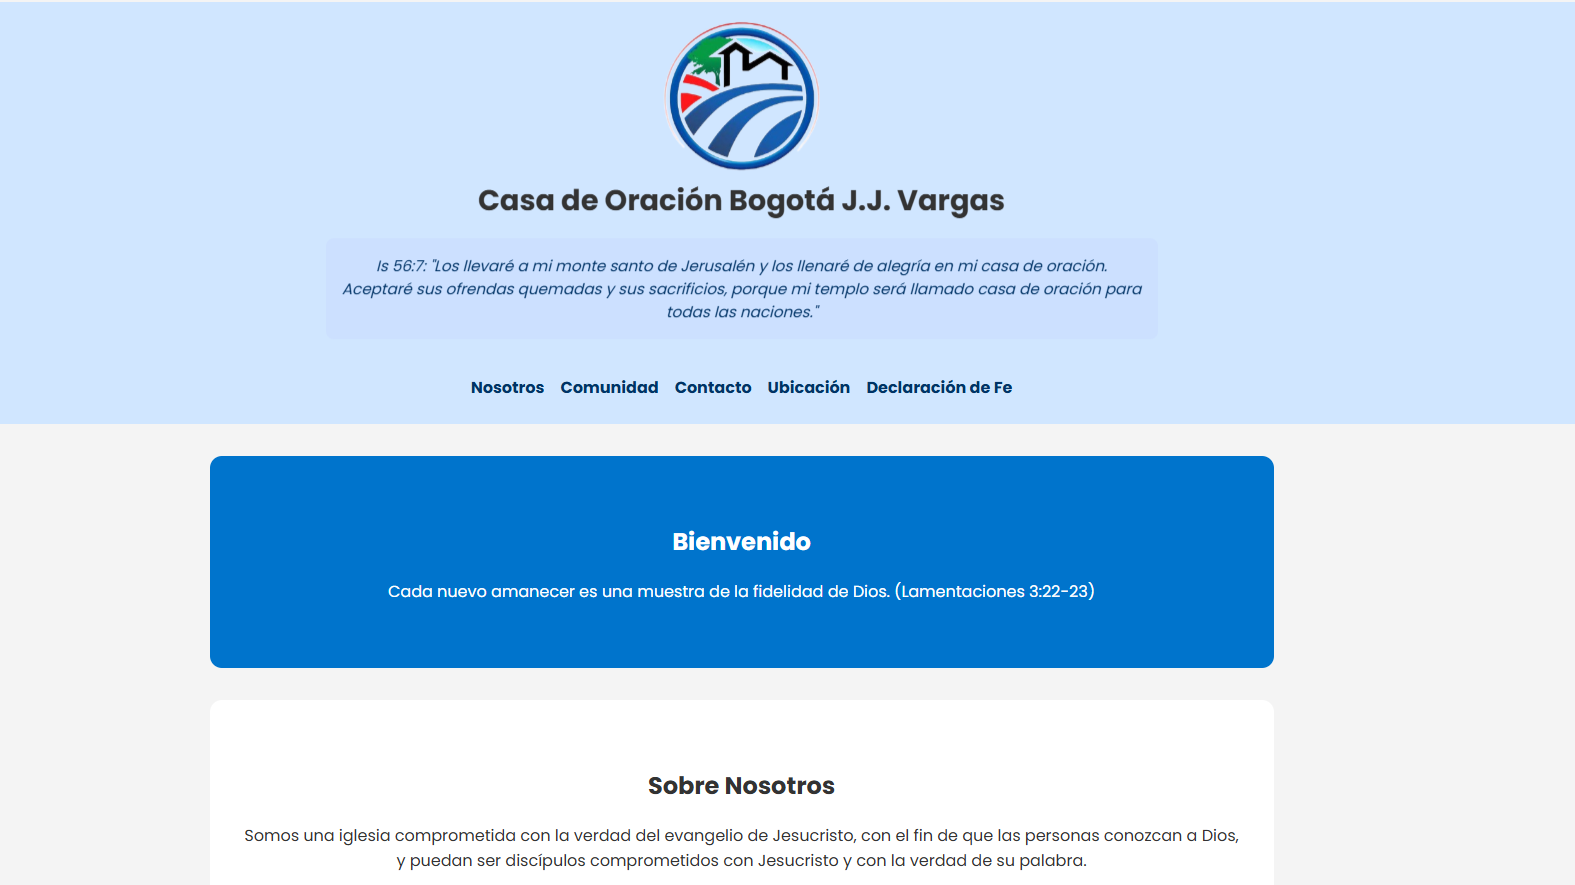
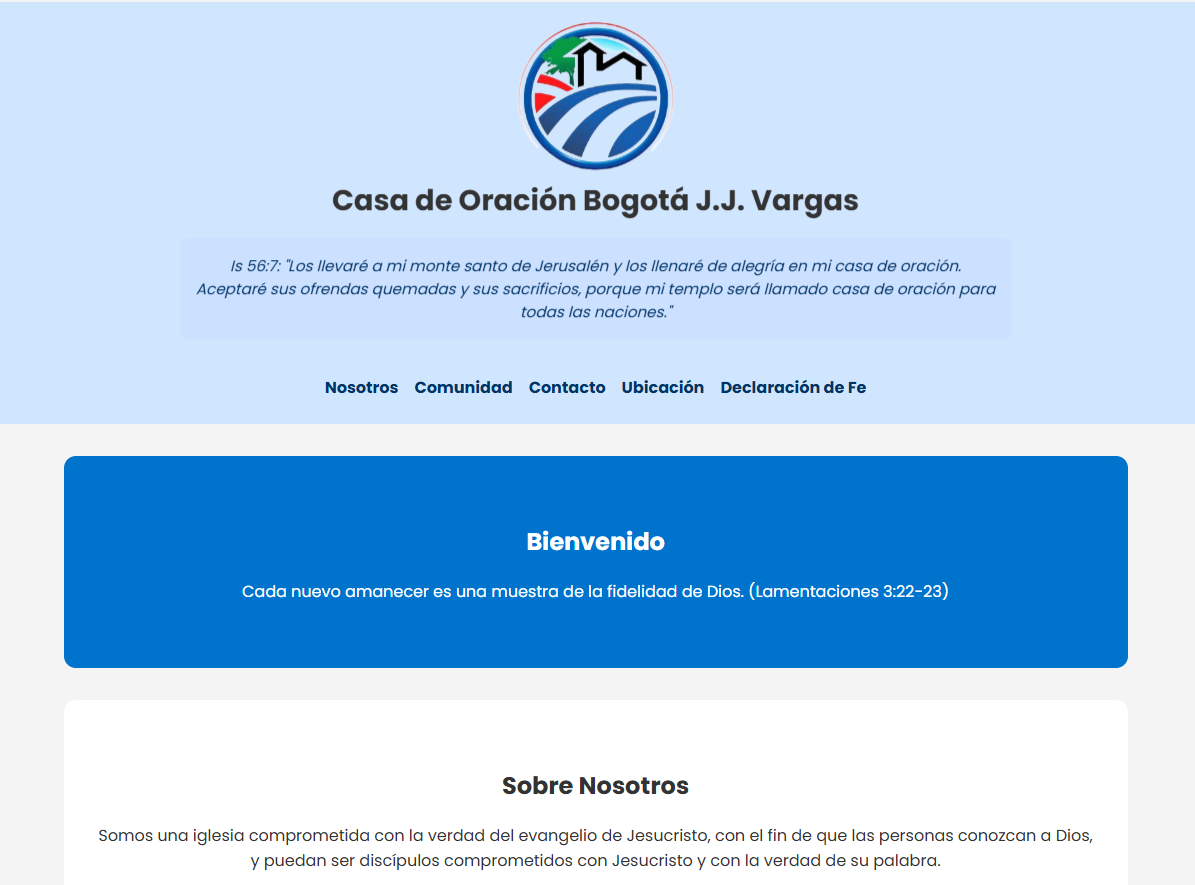
Se realizan ajustes en imagenes

diff --git a/index.html b/index.html
@@ -88,10 +88,9 @@
         <img src="img/img_logo_intellij_idea.png" />
         <img src="img/img_logo_visual_code.png" />
         <img src="img/img_logo_html.png" />
-        <img src="img/img_logo_css.png" />
         <img src="img/imagen_logo_css.png" />
+        <img src="img/img_logo_js.png" />
         <img src="img/img_logo_spring.png" />
-        <img src="img/img_logo_postgresql.png" />
       </div>
     </div>
   </section>

diff --git a/styles.css b/styles.css
@@ -140,8 +140,8 @@ img {
 
 .tech-marquee-wrapper {
   overflow: hidden;
-  height: 80px;
-  position: relative;
+  height: 70px;
+  padding: 5px 0;
 }
 .tech-marquee-track {
   display: flex;
@@ -149,7 +149,8 @@ img {
   animation: scrollLoop 30s linear infinite;
 }
 .tech-marquee-track img {
-  height: 60px;
+  height: 50px;
+  margin: auto 0;
   transition: transform 0.3s;
   filter: drop-shadow(0 0 5px var(--color-shadow));
 }
